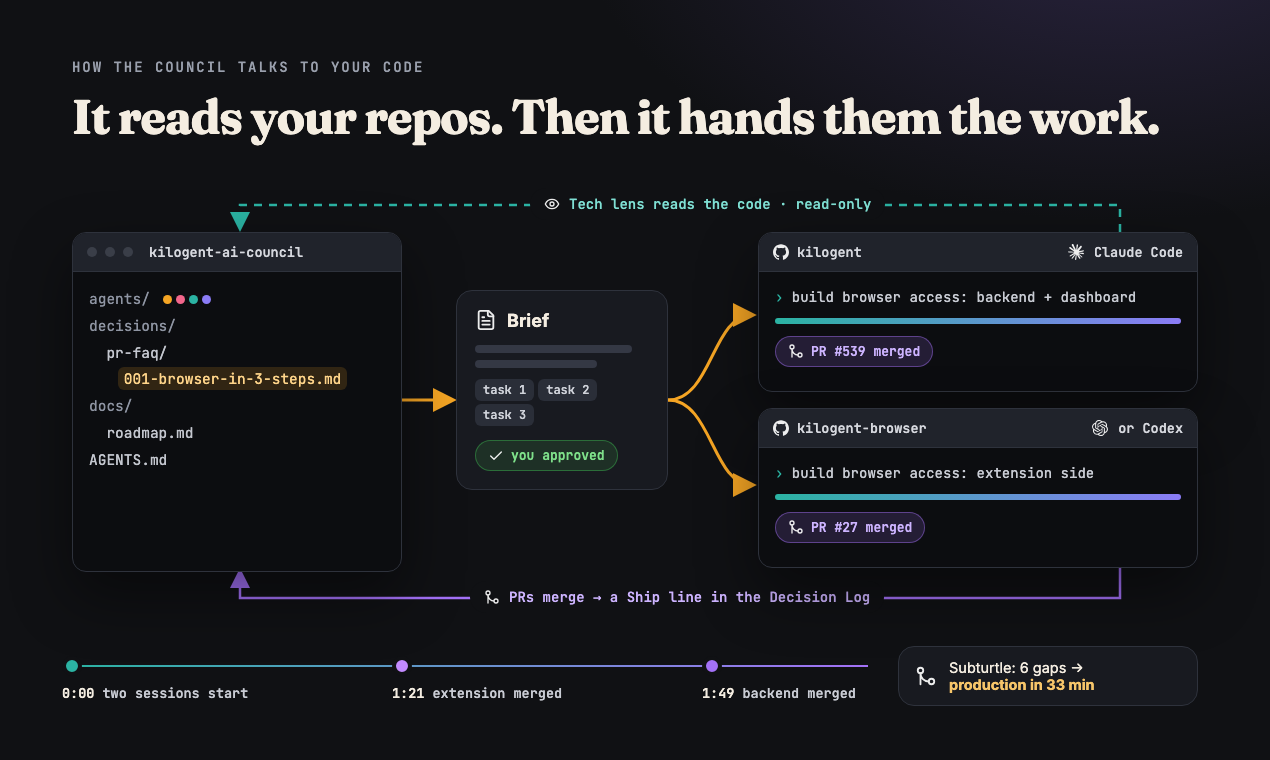
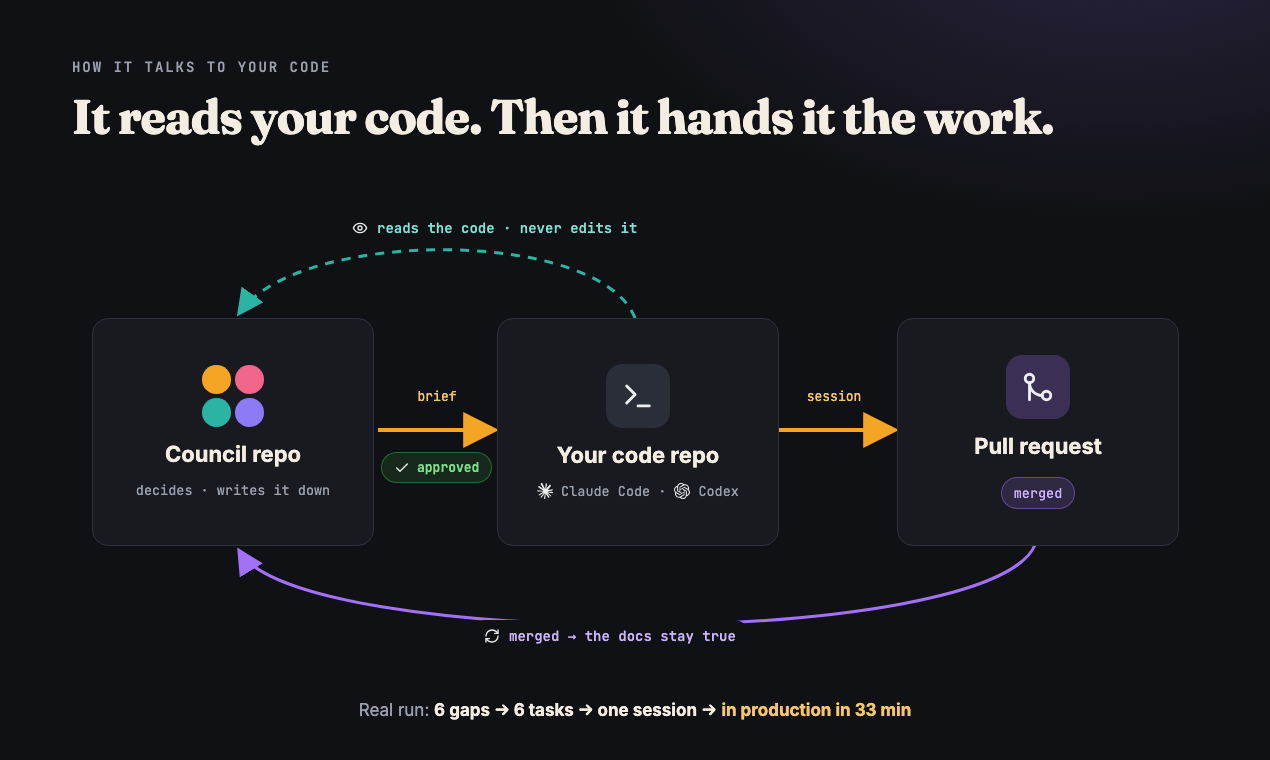
README: simpler council-to-code diagram, drop product-film images

diff --git a/README.md b/README.md
@@ -96,20 +96,16 @@ Every doc also adds one line to the Decision Log in `docs/README.md`.
 
 ## Marketing pieces (the studio)
 
-<p align="center"><img src=".github/assets/studio.png" alt="Launch films made with the studio for Kilogent, Subturtle, BytePets and Lumi Support." width="100%"></p>
-
 
 The council can also make your marketing films, launch images, video covers and slides. Ask for one, and an agent follows `STUDIO.md`. The studio has three layers: a shared **foundation** (your mark, colours, type and honesty rules), one or more **design kits** (each a complete look with reusable parts), and **design cases** (each piece, made with one kit). For a piece, the agent picks or builds a kit, agrees a brief with you, writes the story, shows you key frames, then builds the picture and the sound as code. The template ships no studio files; they are set up the first time you ask. Videos are never committed — each one re-renders from its source, and every published video is listed in `studio/videos.md`. Uploads stay private until you publish them.
 
 ## Built with it
 
-<p align="center"><img src=".github/assets/built-with.png" alt="Subturtle, Kilogent, BytePets and Lumi Support, each run with a council." width="100%"></p>
-
 This template was not designed on a whiteboard. It grew out of one maker running real products with it since January 2026, then was cleaned up and opened:
 
-- **Subturtle** (learn English from what you watch). The first council. It priced a four-tier plan on Stripe-fee and AI-cost math, told two features "don't build yet", and added a fifth lens: a language-learning scientist.
-- **Kilogent** (people and AI agents as one team). Its council decided to "sell the product we have" and made the docs follow the code. The studio made three films and a 14-slide pitch deck.
-- **BytePets** (one map for every pet owner in Vilnius). A hackathon entry: nine decisions in about a day, including dropping its own first MVP. Pitch film: [watch](https://youtu.be/_fosbssDrBc).
+- **[Subturtle](https://subturtle.app)** (learn English from what you watch). The first council. It priced a four-tier plan on Stripe-fee and AI-cost math, told two features "don't build yet", and added a fifth lens: a language-learning scientist.
+- **[Kilogent](https://kilogent.com)** (people and AI agents as one team). Its council decided to "sell the product we have" and made the docs follow the code. The studio made three films and a 14-slide pitch deck.
+- **[BytePets](https://bytepets-app.web.app)** (one map for every pet owner in Vilnius). A hackathon entry: nine decisions in about a day, including dropping its own first MVP. Pitch film: [watch](https://youtu.be/_fosbssDrBc).
 - **Lumi Support** (customer support for small teams). Launch film: [watch](https://youtu.be/cZOMOee6HRA).
 
 Using it for your product? Open an issue or a PR to add it here.
